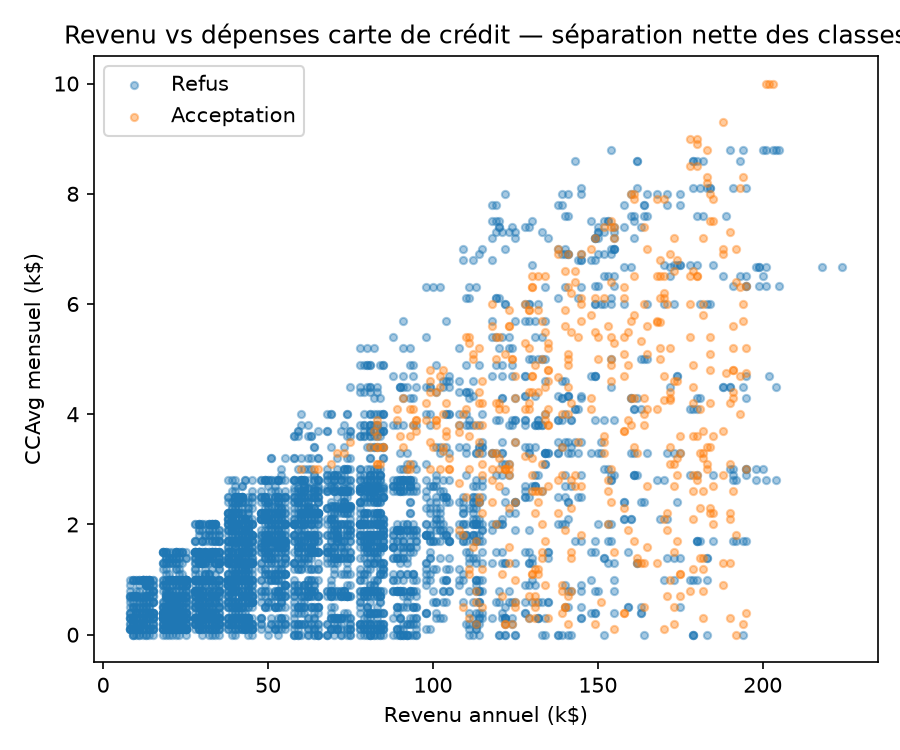
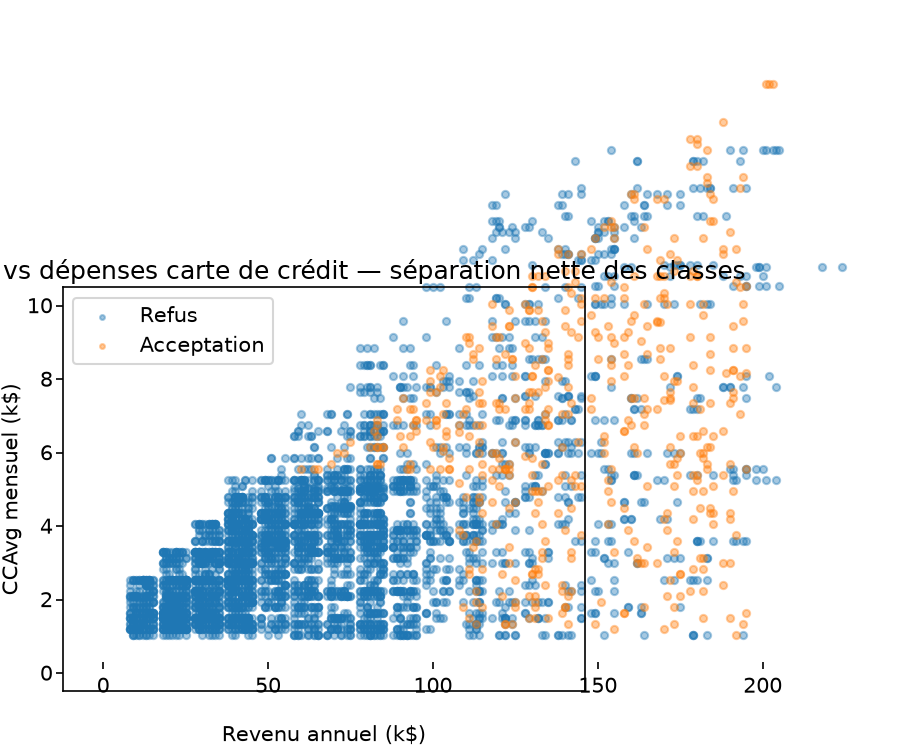
feat: dashboard interactif (filtres, KPI, graphiques altair)

diff --git a/app/app.py b/app/app.py
@@ -1,16 +1,21 @@
-"""App de scoring + analyse : streamlit run app/app.py"""
+"""App scoring + dashboard : streamlit run app/app.py"""
 import sys
 from pathlib import Path
 
 ROOT = Path(__file__).resolve().parents[1]
 sys.path.insert(0, str(ROOT))
 
+import altair as alt          # déjà installé (dépendance de streamlit)
 import joblib
 import pandas as pd
 import streamlit as st
 
 from src import eda
-from src.config import CLEAN_CSV, MODEL_PATH
+from src.config import CLEAN_CSV, MODEL_PATH, TARGET
+
+ORDRE_REVENU = ["<50k", "50-100k", "100-150k", "150k+"]
+EDUS = ["Undergrad", "Graduate", "Advanced/Pro"]
+EDU_MAP = {1: "Undergrad", 2: "Graduate", 3: "Advanced/Pro"}
 
 st.set_page_config(page_title="Scoring Prêt Personnel", page_icon="🏦", layout="centered")
 
@@ -25,30 +30,28 @@ def charger_donnees():
     return pd.read_csv(CLEAN_CSV)
 
 
-onglet_score, onglet_analyse = st.tabs(["🎯 Scoring", "📊 Analyse du dataset"])
+onglet_score, onglet_dash, onglet_eda = st.tabs(
+    ["🎯 Scoring", "📊 Dashboard", "🔬 Analyse du dataset"])
 
-with onglet_score:
-    st.title("🏦 Prédiction d'acceptation d'un prêt personnel")
-    st.caption("Modèle Random Forest — AUC 0.998 — entraîné sur 5 000 clients")
-
-with st.sidebar.header("Profil du client"):
-    pass  # (les widgets ci-dessous restent dans la sidebar)
-
+# ---------------- Sidebar (profil à scorer) ----------------
+st.sidebar.header("Profil du client")
 age = st.sidebar.slider("Âge", 23, 67, 40)
 experience = st.sidebar.slider("Expérience (années)", 0, 45, 10)
 income = st.sidebar.slider("Revenu annuel (k$)", 8, 224, 60)
 family = st.sidebar.select_slider("Taille du foyer", options=[1, 2, 3, 4], value=2)
 ccavg = st.sidebar.slider("Dépenses mensuelles carte (k$)", 0.0, 10.0, 1.5, 0.1)
-education = st.sidebar.selectbox("Éducation", [1, 2, 3],
-                                 format_func=lambda x: {1: "Undergrad", 2: "Graduate",
-                                                        3: "Advanced/Professional"}[x])
+education = st.sidebar.selectbox("Éducation", [1, 2, 3], format_func=lambda x: EDU_MAP[x])
 mortgage = st.sidebar.slider("Hypothèque (k$)", 0, 635, 0)
 cd_account = st.sidebar.checkbox("Compte à terme (CD Account)")
 securities = st.sidebar.checkbox("Compte titres")
 online = st.sidebar.checkbox("Banque en ligne", value=True)
 credit_card = st.sidebar.checkbox("Carte de crédit de la banque")
 
+# ---------------- Onglet Scoring ----------------
 with onglet_score:
+    st.title("🏦 Prédiction d'acceptation d'un prêt personnel")
+    st.caption("Modèle Random Forest — AUC 0.998 — entraîné sur 5 000 clients")
+
     if st.button("Prédire", type="primary"):
         X = pd.DataFrame([{
             "Age": age, "Experience": experience, "Income": income, "Family": family,
@@ -69,16 +72,78 @@ with onglet_score:
         with st.expander("Données envoyées au modèle"):
             st.dataframe(X.T.rename(columns={0: "valeur"}))
 
-with onglet_analyse:
-    st.header("📊 Ce que disent les données")
-    df = charger_donnees()
-    st.pyplot(eda.plot_income_vs_ccavg(df))
-    st.markdown("**Séparation nette des classes** : c'est ce motif que le modèle apprend "
-                "(AUC 0.998). Revenu et dépenses carte sont les 2 variables dominantes.")
+# ---------------- Onglet Dashboard ----------------
+with onglet_dash:
+    st.header("📊 Dashboard interactif")
+    df = charger_donnees().copy()
+    df["Education_Label"] = df["Education"].map(EDU_MAP)
+
+    # --- Filtres (slicers) ---
+    f1, f2, f3 = st.columns(3)
+    edu_ok = f1.multiselect("Éducation", EDUS, default=EDUS)
+    inc_ok = f2.multiselect("Tranche de revenu", ORDRE_REVENU, default=ORDRE_REVENU)
+    a_min, a_max = f3.slider("Âge", int(df["Age"].min()), int(df["Age"].max()),
+                             (int(df["Age"].min()), int(df["Age"].max())))
+
+    dff = df[df["Education_Label"].isin(edu_ok)
+             & df["Income_Group"].isin(inc_ok)
+             & df["Age"].between(a_min, a_max)]
+
+    if dff.empty:
+        st.warning("Aucun client ne correspond à ces filtres.")
+    else:
+        # --- KPI qui réagissent aux filtres ---
+        taux_global = 100 * df[TARGET].mean()
+        taux_filtre = 100 * dff[TARGET].mean()
+        k1, k2, k3, k4 = st.columns(4)
+        k1.metric("Clients (filtrés)", f"{len(dff):,}")
+        k2.metric("Taux d'acceptation", f"{taux_filtre:.1f} %",
+                  delta=f"{taux_filtre - taux_global:+.1f} pts vs global")
+        k3.metric("Revenu moyen", f"{dff['Income'].mean():.0f} k$")
+        k4.metric("Dép. carte moy.", f"{dff['CCAvg'].mean():.1f} k$")
+
+        # --- Graphiques réactifs ---
+        c1, c2 = st.columns(2)
+        with c1:
+            t = (dff.groupby("Income_Group", observed=True)[TARGET].mean() * 100).reset_index()
+            t.columns = ["Tranche", "taux"]
+            ch = alt.Chart(t).mark_bar(color="#1f77b4").encode(
+                x=alt.X("Tranche:N", sort=ORDRE_REVENU, title="Tranche de revenu"),
+                y=alt.Y("taux:Q", title="% acceptation"),
+                tooltip=["Tranche", "taux"]).properties(title="Acceptation par revenu")
+            st.altair_chart(ch, use_container_width=True)
+        with c2:
+            t = (dff.groupby("Education_Label", observed=True)[TARGET].mean() * 100).reset_index()
+            t.columns = ["Éducation", "taux"]
+            ch = alt.Chart(t).mark_bar(color="#ff7f0e").encode(
+                x=alt.X("Éducation:N", sort=EDUS, title="Niveau d'éducation"),
+                y=alt.Y("taux:Q", title="% acceptation"),
+                tooltip=["Éducation", "taux"]).properties(title="Acceptation par éducation")
+            st.altair_chart(ch, use_container_width=True)
+
+        sc = alt.Chart(dff).mark_circle(size=40, opacity=0.45).encode(
+            x=alt.X("Income:Q", title="Revenu annuel (k$)"),
+            y=alt.Y("CCAvg:Q", title="Dépenses carte (k$/mois)"),
+            color=alt.Color("Personal_Loan:N",
+                            scale=alt.Scale(domain=[0, 1], range=["#1f77b4", "#ff7f0e"]),
+                            legend=alt.Legend(title="Prêt accepté")),
+            tooltip=["Age", "Income", "CCAvg", "Education_Label"]
+        ).properties(title="Revenu vs dépenses carte — classes séparées")
+        st.altair_chart(sc, use_container_width=True)
+
+        with st.expander(f"Voir les {len(dff)} clients filtrés"):
+            st.dataframe(dff.drop(columns=["Education_Label"]), use_container_width=True)
+
+# ---------------- Onglet Analyse statique ----------------
+with onglet_eda:
+    st.header("🔬 Ce que disent les données")
+    dfe = charger_donnees()
+    st.pyplot(eda.plot_income_vs_ccavg(dfe))
+    st.markdown("**Séparation nette des classes** : c'est ce motif que le modèle apprend (AUC 0.998).")
     c1, c2 = st.columns(2)
     with c1:
-        st.pyplot(eda.plot_taux_par_revenu(df))
+        st.pyplot(eda.plot_taux_par_revenu(dfe))
     with c2:
-        st.pyplot(eda.plot_taux_par_education(df))
-    st.pyplot(eda.plot_distribution_cible(df))
+        st.pyplot(eda.plot_taux_par_education(dfe))
+    st.pyplot(eda.plot_distribution_cible(dfe))
     st.caption("Classe minoritaire (~9,6 %) → stratification et class_weight lors de l'entraînement.")
